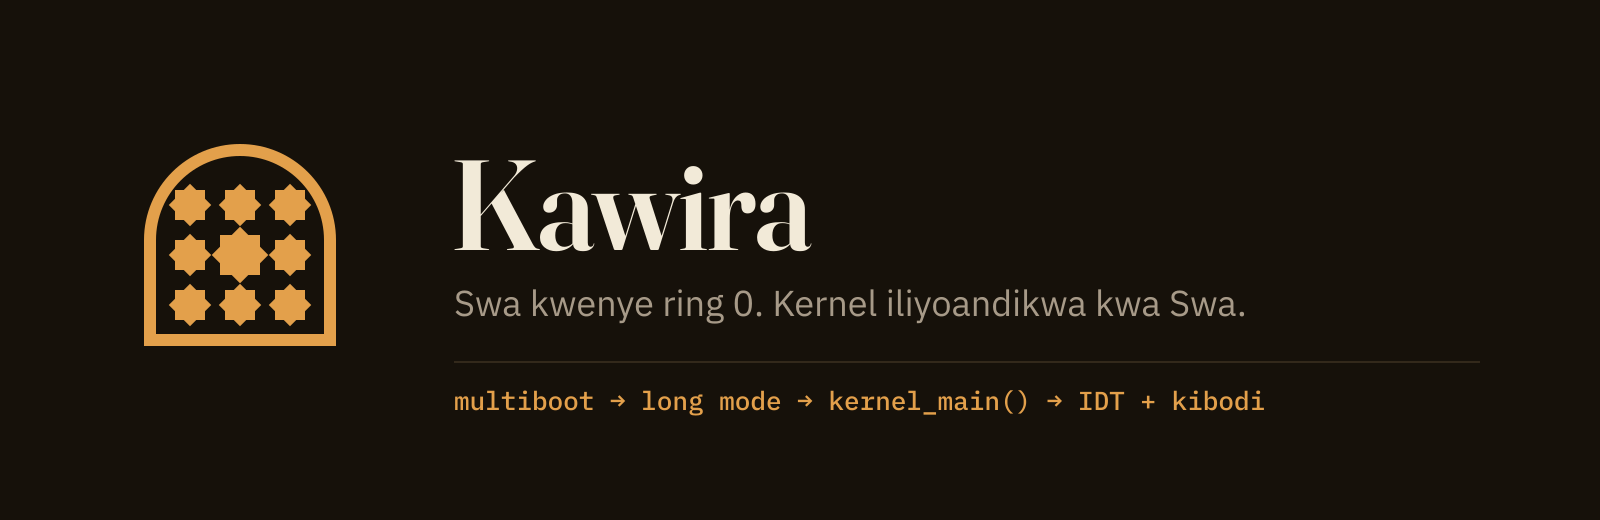
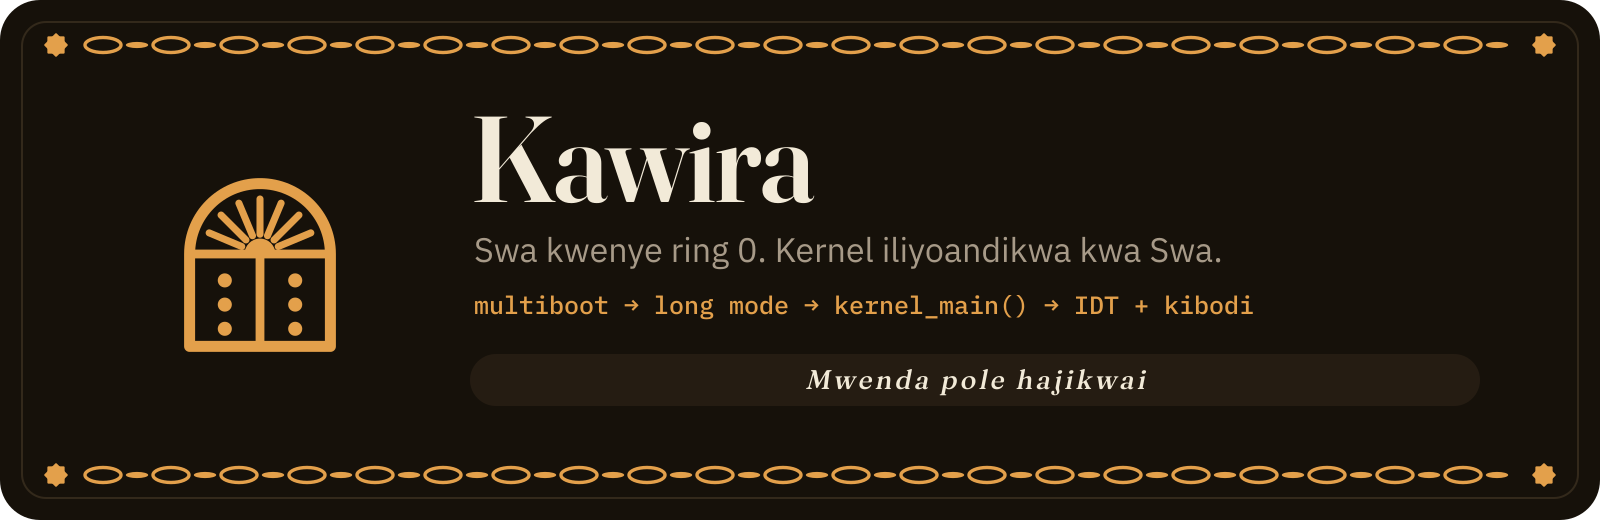
badilisha: mabango kwa muundo wa kanga
Kanga ina sehemu tatu: pindo, mji, na jina. Pindo hapa ni mnyororo --
mchoro wa fremu za milango ya kuchonga, na pia mnyororo wetu wa
kujikusanya -- na pembe za nyota. Jina ni methali halisi kwa kila
hazina (swa: Haba na haba hujaza kibaba). Pembe za bango ni za
mviringo, nje yake ni wazi. Majina ya faili hayajabadilika, kwa hiyo
README zote zinapata mabango mapya bila kuguswa.

diff --git a/rasilimali/zana/tengeneza_mabango.py b/rasilimali/zana/tengeneza_mabango.py
@@ -1,92 +1,189 @@
 #!/usr/bin/env python3
-"""Tengeneza mabango (banners) ya README za lugha-swa: SVG -> PNG, mwanga na giza.
+"""Tengeneza mabango ya README na nembo za lugha-swa: SVG -> PNG, mwanga na giza.
 
-Rangi na fonti ni zile zile za tovuti (lugha-swa.github.io/style.css).
-GitHub haipakii fonti za wavuti ndani ya picha za README, kwa hiyo
-mabango hutolewa kama PNG zilizochorwa tayari.
+Muundo unatoka kwenye sanaa mbili maarufu zaidi za Waswahili:
 
-Matumizi: FONTCONFIG_FILE=... python3 tengeneza_mabango.py <saraka-ya-pato>
+- Nembo ni mlango wa kuchonga wa Zanzibar/Lamu: tao la feni juu ya
+  kizingiti, nguzo ya katikati, na vifundo (studs) vya shaba.
+- Bango ni kanga: pindo (mpaka) wa mnyororo -- mchoro wa fremu za
+  milango hiyo hiyo, na pia mnyororo wetu wa kujikusanya -- katikati
+  (mji), na jina: methali iliyochapishwa kwa kila hazina.
+
+Rangi na fonti (Fraunces, IBM Plex) ni zile zile za tovuti. GitHub
+haipakii fonti za wavuti ndani ya picha za README, kwa hiyo mabango
+hutolewa kama PNG zilizochorwa tayari; pembe ni za mviringo na nje
+yake ni wazi (transparent).
+
+Matumizi: FONTCONFIG_FILE=... python3 tengeneza_mabango.py <saraka-ya-rasilimali>
 """
+import math
 import os
 import subprocess
 import sys
 from html import escape
 
 MANDHARI = {
-    "mwanga": dict(bg="#FAF7EF", bg_alt="#F2ECDF", ink="#1F1810", muted="#6B5E4A",
-                   accent="#A34E14", rule="#E4DBC6"),
-    "giza": dict(bg="#16110A", bg_alt="#1D1710", ink="#F2EAD8", muted="#A79A88",
-                 accent="#E3A04B", rule="#33291B"),
+    "mwanga": dict(bg="#FAF7EF", ink="#1F1810", muted="#6B5E4A", accent="#A34E14",
+                   rule="#E4DBC6", soft="#EFE5D3"),
+    "giza": dict(bg="#16110A", ink="#F2EAD8", muted="#A79A88", accent="#E3A04B",
+                 rule="#33291B", soft="#251C12"),
 }
 
-# jina la faili -> (kichwa, maelezo, mstari wa sahihi)
+# jina la faili -> (kichwa, maelezo, mstari wa sahihi, methali)
 MABANGO = {
     "lugha-swa": ("lugha-swa",
                   "Programu za mifumo, kwa Kiswahili.",
-                  "swa  ·  kawira  ·  uchapaji-swa  ·  tree-sitter-swa"),
+                  "swa  ·  kawira  ·  uchapaji-swa  ·  tree-sitter-swa",
+                  "Penye nia pana njia"),
     "swa": ("Swa",
             "Lugha ya kupanga ya Kiswahili inayojikusanya yenyewe.",
-            "kwanza  →  mbegu  →  stage1  →  stage2 == stage3"),
+            "kwanza  →  mbegu  →  stage1  →  stage2 == stage3",
+            "Haba na haba hujaza kibaba"),
     "kawira": ("Kawira",
                "Swa kwenye ring 0. Kernel iliyoandikwa kwa Swa.",
-               "multiboot  →  long mode  →  kernel_main()  →  IDT + kibodi"),
+               "multiboot  →  long mode  →  kernel_main()  →  IDT + kibodi",
+               "Mwenda pole hajikwai"),
     "uchapaji-swa": ("uchapaji-swa",
                      "Fonti za TrueType na kijazaji cha glyph, kwa Swa safi.",
-                     "glyf  →  mikunjo  →  mistari  →  pikseli"),
+                     "glyf  →  mikunjo  →  mistari  →  pikseli",
+                     "Haraka haraka haina baraka"),
     "tree-sitter-swa": ("tree-sitter-swa",
                         "Sarufi ya Tree-sitter kwa lugha ya Swa.",
-                        "chanzo.swa  →  mti wa sintaksia  →  rangi kwenye kihariri"),
+                        "chanzo.swa  →  mti wa sintaksia  →  rangi kwenye kihariri",
+                        "Ukiona vyaelea, vimeundwa"),
 }
 
-UPANA, UREFU = 1600, 520
+UPANA, UREFU, PEMBE = 1600, 520, 40
 
 
-def nembo(x, y, ukubwa, rangi):
-    """Nembo ya tovuti (lango lenye nyota tisa), imepanuliwa kutoka 48x48."""
-    s = ukubwa / 48.0
-    nyota = []
-    for (cx, cy) in [(14, 15), (24, 15), (34, 15), (14, 25), (24, 25), (34, 25),
-                     (14, 35), (24, 35), (34, 35)]:
-        r = 4 if (cx, cy) == (24, 25) else 3
-        nyota.append(
-            f'<g transform="translate({cx} {cy})">'
-            f'<rect x="{-r}" y="{-r}" width="{2*r}" height="{2*r}"/>'
-            f'<rect x="{-r}" y="{-r}" width="{2*r}" height="{2*r}" transform="rotate(45)"/></g>')
-    return (f'<g transform="translate({x} {y}) scale({s})">'
-            f'<path d="M6 42 V22 A18 18 0 0 1 42 22 V42 Z" fill="none" stroke="{rangi}" stroke-width="2.4"/>'
-            f'<g fill="{rangi}">{"".join(nyota)}</g></g>')
+# ---------------------------------------------------------------- nembo
+
+def mlango(c):
+    """Nembo kamili (100x100): feni, kizingiti, nguzo, vifundo sita."""
+    o = [f'<path d="M18 92 V50 A32 32 0 0 1 82 50 V92 Z" fill="none" stroke="{c}" stroke-width="5" stroke-linejoin="round"/>',
+         f'<line x1="20" y1="50" x2="80" y2="50" stroke="{c}" stroke-width="4" stroke-linecap="round"/>',
+         f'<line x1="50" y1="50" x2="50" y2="90" stroke="{c}" stroke-width="4" stroke-linecap="round"/>']
+    for k in range(1, 8):
+        a = math.pi + k * math.pi / 8
+        o.append(f'<line x1="{50 + 9 * math.cos(a):.1f}" y1="{50 + 9 * math.sin(a):.1f}" '
+                 f'x2="{50 + 25 * math.cos(a):.1f}" y2="{50 + 25 * math.sin(a):.1f}" '
+                 f'stroke="{c}" stroke-width="3.2" stroke-linecap="round"/>')
+    o.append(f'<path d="M43 50 A7 7 0 0 1 57 50 Z" fill="{c}"/>')
+    for x in (34, 66):
+        for y in (62, 73, 84):
+            o.append(f'<circle cx="{x}" cy="{y}" r="3.2" fill="{c}"/>')
+    return "".join(o)
 
 
-def bango(kichwa, maelezo, sahihi, m):
-    kushoto = 120
-    nembo_ukubwa = 240
-    maandishi_x = kushoto + nembo_ukubwa + 90
-    return f'''<svg xmlns="http://www.w3.org/2000/svg" width="{UPANA}" height="{UREFU}" viewBox="0 0 {UPANA} {UREFU}">
-  <rect width="100%" height="100%" fill="{m["bg"]}"/>
-  {nembo(kushoto, (UREFU - nembo_ukubwa) / 2 - 10, nembo_ukubwa, m["accent"])}
-  <text x="{maandishi_x}" y="250" font-family="Fraunces" font-weight="600" font-size="128"
-        fill="{m["ink"]}" letter-spacing="-2">{escape(kichwa)}</text>
-  <text x="{maandishi_x + 4}" y="316" font-family="IBM Plex Sans" font-weight="400" font-size="36"
-        fill="{m["muted"]}">{escape(maelezo)}</text>
-  <line x1="{maandishi_x + 4}" y1="362" x2="{UPANA - 120}" y2="362" stroke="{m["rule"]}" stroke-width="2"/>
-  <text x="{maandishi_x + 4}" y="410" font-family="IBM Plex Mono" font-weight="500" font-size="26"
-        fill="{m["accent"]}">{escape(sahihi)}</text>
-</svg>
-'''
+def mlango_mdogo(c):
+    """Kibadala cha ukubwa mdogo (favicon): feni na nguzo tu, mistari minene."""
+    o = [f'<path d="M14 92 V52 A36 36 0 0 1 86 52 V92 Z" fill="none" stroke="{c}" stroke-width="8" stroke-linejoin="round"/>',
+         f'<line x1="50" y1="52" x2="50" y2="90" stroke="{c}" stroke-width="8" stroke-linecap="round"/>',
+         f'<line x1="18" y1="52" x2="82" y2="52" stroke="{c}" stroke-width="7" stroke-linecap="round"/>']
+    for k in (1, 2, 3, 4, 5):
+        a = math.pi + k * math.pi / 6
+        o.append(f'<line x1="50" y1="52" x2="{50 + 26 * math.cos(a):.1f}" y2="{52 + 26 * math.sin(a):.1f}" '
+                 f'stroke="{c}" stroke-width="6" stroke-linecap="round"/>')
+    return "".join(o)
+
+
+def nyota8(cx, cy, r, rangi):
+    """Nyota ya pembe nane ya michoro ya pwani (pembe za pindo)."""
+    s = r * 0.72
+    return (f'<g transform="translate({cx} {cy})" fill="{rangi}">'
+            f'<rect x="{-s}" y="{-s}" width="{2 * s}" height="{2 * s}" rx="{s * 0.12}"/>'
+            f'<rect x="{-s}" y="{-s}" width="{2 * s}" height="{2 * s}" rx="{s * 0.12}" transform="rotate(45)"/></g>')
+
+
+# ---------------------------------------------------------------- bango
+
+def mnyororo(x1, x2, y, c):
+    """Viungo vya mnyororo vinavyopishana (wazi / imara) kando ya mstari."""
+    o, step, rx, ry = [], 34, 18, 7.5
+    n = int((x2 - x1) // step)
+    start = x1 + ((x2 - x1) - n * step) / 2 + step / 2
+    for i in range(n):
+        cx = start + i * step
+        if i % 2 == 0:
+            o.append(f'<ellipse cx="{cx:.1f}" cy="{y}" rx="{rx}" ry="{ry}" fill="none" stroke="{c}" stroke-width="3.4"/>')
+        else:
+            o.append(f'<ellipse cx="{cx:.1f}" cy="{y}" rx="{rx * 0.62:.1f}" ry="{ry * 0.42:.1f}" fill="{c}"/>')
+    return "".join(o)
+
+
+def bango(kichwa, maelezo, sahihi, methali, m):
+    ndani, ukanda = 22, 46
+    juu, chini = ndani + ukanda, UREFU - ndani - ukanda      # mipaka ya "mji" (katikati)
+    # Kizuizi cha maandishi: kichwa (urefu wa herufi ~92), maelezo,
+    # sahihi, na kisanduku cha methali -- kimewekwa katikati wima.
+    kizuizi = 300
+    y0 = juu + (chini - juu - kizuizi) / 2
+    xt = 470
+    nembo_ukubwa = 220
+    o = [f'<svg xmlns="http://www.w3.org/2000/svg" width="{UPANA}" height="{UREFU}" viewBox="0 0 {UPANA} {UREFU}">',
+         f'<defs><clipPath id="pembe"><rect width="{UPANA}" height="{UREFU}" rx="{PEMBE}"/></clipPath></defs>',
+         f'<g clip-path="url(#pembe)">',
+         f'<rect width="{UPANA}" height="{UREFU}" fill="{m["bg"]}"/>',
+         f'<rect x="{ndani}" y="{ndani}" width="{UPANA - 2 * ndani}" height="{UREFU - 2 * ndani}" '
+         f'rx="{PEMBE - ndani + 6}" fill="none" stroke="{m["rule"]}" stroke-width="2"/>',
+         mnyororo(ndani + 60, UPANA - ndani - 60, ndani + ukanda / 2, m["accent"]),
+         mnyororo(ndani + 60, UPANA - ndani - 60, UREFU - ndani - ukanda / 2, m["accent"])]
+    for cx in (ndani + 34, UPANA - ndani - 34):
+        for cy in (ndani + ukanda / 2, UREFU - ndani - ukanda / 2):
+            o.append(nyota8(cx, cy, 12, m["accent"]))
+    o.append(f'<g transform="translate(150 {y0 + (kizuizi - nembo_ukubwa) / 2 - 6}) scale({nembo_ukubwa / 100})">'
+             f'{mlango(m["accent"])}</g>')
+    o.append(f'<text x="{xt}" y="{y0 + 92}" font-family="Fraunces" font-weight="600" font-size="122" '
+             f'fill="{m["ink"]}" letter-spacing="-2">{escape(kichwa)}</text>')
+    o.append(f'<text x="{xt + 4}" y="{y0 + 152}" font-family="IBM Plex Sans" font-size="34" '
+             f'fill="{m["muted"]}">{escape(maelezo)}</text>')
+    o.append(f'<text x="{xt + 4}" y="{y0 + 204}" font-family="IBM Plex Mono" font-weight="500" font-size="25" '
+             f'fill="{m["accent"]}">{escape(sahihi)}</text>')
+    upana_jina = UPANA - xt - 120
+    o.append(f'<rect x="{xt}" y="{y0 + 244}" width="{upana_jina}" height="52" rx="26" fill="{m["soft"]}"/>')
+    o.append(f'<text x="{xt + upana_jina / 2}" y="{y0 + 279}" text-anchor="middle" font-family="Fraunces" '
+             f'font-weight="500" font-style="italic" font-size="27" letter-spacing="3" '
+             f'fill="{m["ink"]}">{escape(methali)}</text>')
+    o.append('</g></svg>\n')
+    return "".join(o)
+
+
+def chora(svg_maandishi, png, upana=None, urefu=None):
+    tmp = png + ".svg"
+    with open(tmp, "w") as f:
+        f.write(svg_maandishi)
+    cmd = ["rsvg-convert", "-o", png]
+    if upana:
+        cmd += ["-w", str(upana)]
+    if urefu:
+        cmd += ["-h", str(urefu)]
+    subprocess.run(cmd + [tmp], check=True)
+    os.remove(tmp)
 
 
 def main():
-    pato = sys.argv[1] if len(sys.argv) > 1 else "mabango"
-    os.makedirs(pato, exist_ok=True)
-    for jina, (kichwa, maelezo, sahihi) in MABANGO.items():
+    msingi = sys.argv[1] if len(sys.argv) > 1 else "rasilimali"
+    mabango = os.path.join(msingi, "mabango")
+    nembo = os.path.join(msingi, "nembo")
+    os.makedirs(mabango, exist_ok=True)
+    os.makedirs(nembo, exist_ok=True)
+
+    for jina, (kichwa, maelezo, sahihi, methali) in MABANGO.items():
         for mandhari, m in MANDHARI.items():
-            svg = os.path.join(pato, f"{jina}-{mandhari}.svg")
-            png = os.path.join(pato, f"{jina}-{mandhari}.png")
-            with open(svg, "w") as f:
-                f.write(bango(kichwa, maelezo, sahihi, m))
-            subprocess.run(["rsvg-convert", "-w", str(UPANA), "-o", png, svg], check=True)
-            os.remove(svg)
+            png = os.path.join(mabango, f"{jina}-{mandhari}.png")
+            chora(bango(kichwa, maelezo, sahihi, methali, m), png, upana=UPANA)
             print(png)
+
+    # Nembo: SVG za currentColor (kwa tovuti), na PNG za rangi ya chapa.
+    kati = "#B8652A"  # inasomeka juu ya mandharinyuma ya mwanga na giza
+    for faili, fn in (("nembo", mlango), ("nembo-ndogo", mlango_mdogo)):
+        svg = (f'<svg xmlns="http://www.w3.org/2000/svg" viewBox="0 0 100 100" role="img" '
+               f'aria-label="Nembo ya Swa: mlango wa kuchonga">{fn("currentColor")}</svg>\n')
+        with open(os.path.join(nembo, f"{faili}.svg"), "w") as f:
+            f.write(svg)
+        for z in (64, 256):
+            chora(svg.replace("currentColor", kati), os.path.join(nembo, f"{faili}-{z}.png"), z, z)
+            print(os.path.join(nembo, f"{faili}-{z}.png"))
 
 
 if __name__ == "__main__":
